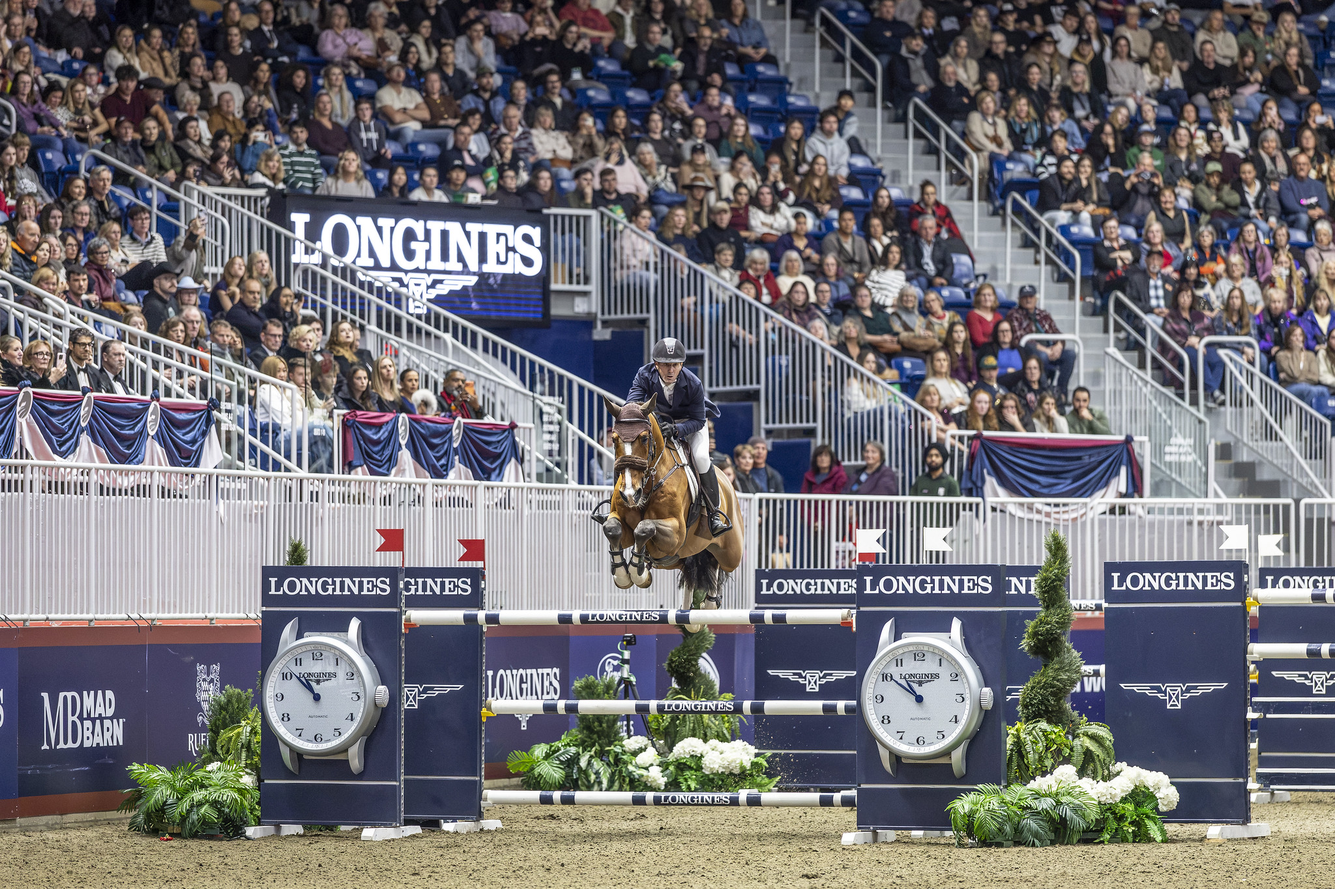
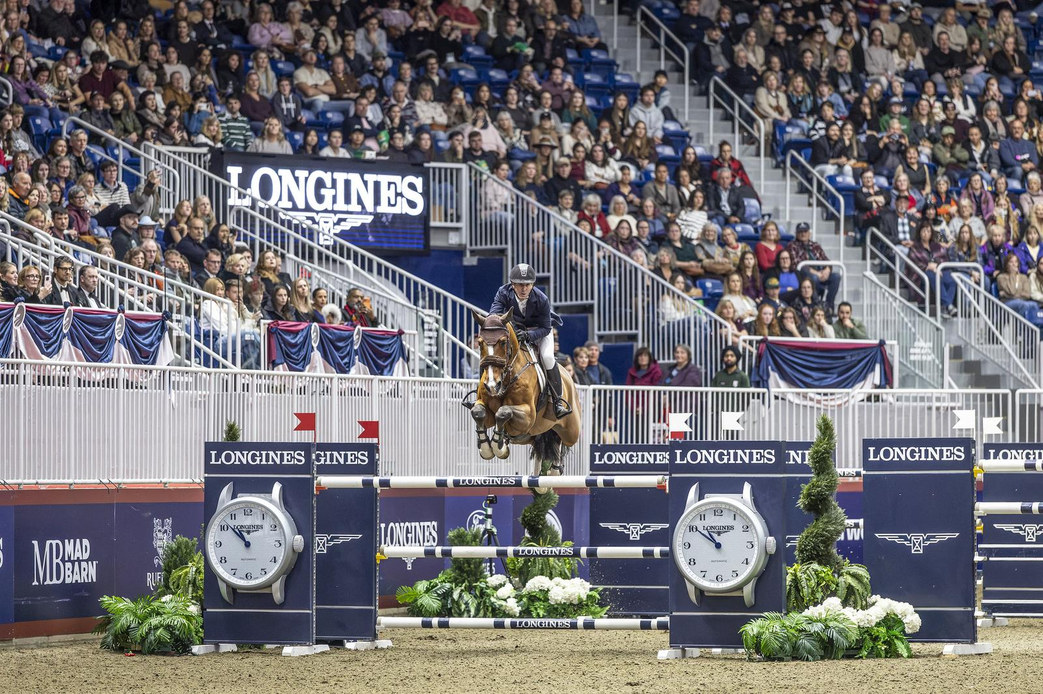
Publicación lote 2026-11-21 10:07: 3 aprobado(s) + 0 rechazado(s) vía Telegram

diff --git a/noticias/20261120-guy-williams-y-kazandor-hero-z-ganan-la-prueba-de-145-m-del-csi4-de-valencia.html b/noticias/20261120-guy-williams-y-kazandor-hero-z-ganan-la-prueba-de-145-m-del-csi4-de-valencia.html
@@ -1,0 +1,166 @@
+<!DOCTYPE html>
+<html lang="es">
+<head>
+<meta charset="utf-8">
+<meta name="viewport" content="width=device-width, initial-scale=1">
+<meta name="google-adsense-account" content="ca-pub-1193575282200437">
+<script async src="https://pagead2.googlesyndication.com/pagead/js/adsbygoogle.js?client=ca-pub-1193575282200437"
+     crossorigin="anonymous"></script>
+<title>Guy Williams y Kazandor Hero Z ganan la prueba de 1,45 m del…</title>
+<meta name="description" content="El británico Guy Williams, con Kazandor Hero Z, se impuso en la prueba de 1,45 m del Big Tour del CSI4* del Moura Tours in Valencia - Autumn Tour."><meta name="robots" content="max-image-preview:large"><link rel="canonical" href="https://www.hipicaaldia.com/noticias/20261120-guy-williams-y-kazandor-hero-z-ganan-la-prueba-de-145-m-del-csi4-de-valencia"><meta property="og:site_name" content="Hípica al Día">
+<meta property="og:type" content="article">
+<meta property="og:title" content="Guy Williams y Kazandor Hero Z ganan la prueba de 1,45 m del CSI4* de Valencia">
+<meta property="og:description" content="El británico Guy Williams, con Kazandor Hero Z, se impuso en la prueba de 1,45 m del Big Tour del CSI4* del Moura Tours in Valencia - Autumn Tour.">
+<meta property="og:url" content="https://www.hipicaaldia.com/noticias/20261120-guy-williams-y-kazandor-hero-z-ganan-la-prueba-de-145-m-del-csi4-de-valencia"><meta property="og:image" content="https://www.hipicaaldia.com/imagenes_archivo/fei_flickr/55653653699_f20a730632_k.jpg">
+<meta property="og:image:width" content="1200">
+<meta property="og:image:height" content="630"><meta name="twitter:card" content="summary_large_image">
+<meta name="twitter:title" content="Guy Williams y Kazandor Hero Z ganan la prueba de 1,45 m del CSI4* de Valencia">
+<meta name="twitter:description" content="El británico Guy Williams, con Kazandor Hero Z, se impuso en la prueba de 1,45 m del Big Tour del CSI4* del Moura Tours in Valencia - Autumn Tour.">
+<meta name="twitter:image" content="https://www.hipicaaldia.com/imagenes_archivo/fei_flickr/55653653699_f20a730632_k.jpg"><link rel="stylesheet" href="../css/estilo.css">
+<link rel="alternate" type="application/rss+xml" title="Hípica al Día" href="https://www.hipicaaldia.com/feed.xml"><link rel="icon" href="../favicon.ico" sizes="any">
+<link rel="icon" href="../favicon.svg" type="image/svg+xml">
+<link rel="apple-touch-icon" href="../apple-touch-icon.png">
+<link rel="manifest" href="../manifest.webmanifest">
+<meta name="theme-color" content="#5C3A1E">
+<script type="application/ld+json">
+{
+  "@context": "https://schema.org",
+  "@type": "NewsMediaOrganization",
+  "name": "Hípica al Día",
+  "url": "https://www.hipicaaldia.com",
+  "logo": {
+    "@type": "ImageObject",
+    "url": "https://www.hipicaaldia.com/icon-512.png",
+    "width": 512,
+    "height": 512
+  },
+  "description": "Noticias del deporte ecuestre",
+  "publisher": {
+    "@type": "Organization",
+    "name": "ICB Equus, S.L."
+  },
+  "sameAs": [
+    "https://www.galopealdia.com"
+  ]
+}
+</script>
+<script type="application/ld+json">
+{
+  "@context": "https://schema.org",
+  "@type": "NewsArticle",
+  "headline": "Guy Williams y Kazandor Hero Z ganan la prueba de 1,45 m del CSI4* de Valencia",
+  "inLanguage": "es",
+  "author": {
+    "@type": "Person",
+    "name": "Lucía Valdeolmos",
+    "url": "https://www.hipicaaldia.com/legal/quienes-somos#firma"
+  },
+  "publisher": {
+    "@type": "NewsMediaOrganization",
+    "name": "Hípica al Día",
+    "url": "https://www.hipicaaldia.com",
+    "logo": {
+      "@type": "ImageObject",
+      "url": "https://www.hipicaaldia.com/icon-512.png"
+    }
+  },
+  "description": "El británico Guy Williams, con Kazandor Hero Z, se impuso en la prueba de 1,45 m del Big Tour del CSI4* del Moura Tours in Valencia - Autumn Tour.",
+  "url": "https://www.hipicaaldia.com/noticias/20261120-guy-williams-y-kazandor-hero-z-ganan-la-prueba-de-145-m-del-csi4-de-valencia",
+  "mainEntityOfPage": {
+    "@type": "WebPage",
+    "@id": "https://www.hipicaaldia.com/noticias/20261120-guy-williams-y-kazandor-hero-z-ganan-la-prueba-de-145-m-del-csi4-de-valencia"
+  },
+  "image": [
+    "https://www.hipicaaldia.com/og-marca.jpg"
+  ],
+  "datePublished": "2026-11-20T20:44:28+01:00",
+  "dateModified": "2026-11-20T20:44:28+01:00"
+}
+</script><script defer src="../js/ads.js"></script>
+<script defer src="https://static.cloudflareinsights.com/beacon.min.js"
+        data-cf-beacon='{"token": "f428b37828f2458dad4f0180049bbd6c"}'></script>
+</head>
+<body>
+<header class="cabecera">
+  <div class="marca">
+    <a href=".././" class="logo">Hípica al Día</a>
+    <p class="slogan">Noticias del deporte ecuestre</p>
+  </div>
+  <nav class="nav-principal">
+    <a href="../salto">Salto</a>
+    <a href="../doma">Doma</a>
+    <a href="../otros">Otros</a>
+    <a href="../cria">Cría</a>
+    <a href="../calendario">Calendario</a>
+  </nav>
+  <div class="hermana">
+    <a href="https://www.galopealdia.com" rel="noopener">Turf →</a>
+  </div>
+</header>
+<main>
+<div class="layout-grid" data-layout="con-sidebar">
+  <div class="contenido-principal">
+<!-- confianza_datos: media -->
+<!-- fuentes_contrastadas: 0 -->
+<article class="noticia">
+  <header>
+    <h1>Guy Williams y Kazandor Hero Z ganan la prueba de 1,45 m del CSI4* de Valencia</h1>
+    <p class="entradilla">El británico Guy Williams, con Kazandor Hero Z, se impuso en la prueba de 1,45 m del Big Tour del CSI4* del Moura Tours in Valencia - Autumn Tour.</p>
+    <p class="meta">20/11/2026 · Salto</p>
+  </header>
+  <figure class="imagen-noticia imagen-archivo"><img src="../imagenes_archivo/fei_flickr/55653653699_f20a730632_k.jpg" alt="Imagen de archivo (2026). McLain Ward (USA) con Jordan Molga M en Longines FEI Jumping World Cup 2026/27 - NAL. Foto: FE"><figcaption class="pie-transparente"><strong>Imagen de archivo (2026). McLain Ward (USA) con Jordan Molga M en Longines FEI Jumping World Cup 2026/27 - NAL. Foto: FEI/Mackenzie Clark</strong></figcaption></figure>
+
+  <div class="cuerpo">
+    <p>La prueba del Big Tour disputada este jueves 20 de noviembre, con baremo A contra el cronómetro y un desempate, llevó el nombre de Cuerpo Consular de Valencia y se saldó con victoria británica. Guy Williams y Kazandor Hero Z cerraron sus dos recorridos sin penalizaciones y firmaron el mejor tiempo, 40,12 segundos, según la clasificación oficial.</p><p>La segunda plaza fue para Elia Simonetti (VEN) con Conchita PS, también con 0-0 puntos y un registro de 41,97 s. El neerlandés Kevin Jochems completó el podio con Ice d'Alba, igualmente sin faltas y con 42,15 s, apenas dieciocho centésimas por detrás del binomio venezolano.</p><p>Los tres primeros clasificados terminaron así con doble cero, y el orden lo decidió el cronómetro. Williams sacó 1,85 segundos a Simonetti, la diferencia más amplia entre los puestos de honor.</p><p>La prueba formó parte del CSI4* de la gira de otoño de Moura Tours in Valencia, que se celebra entre el 26 de octubre y el 22 de noviembre de 2026.</p><p><a href="https://online.equipe.com/startlists/1330461">Resultados oficiales</a></p>
+      <aside class="relacionadas"><h2>Relacionadas</h2><ul><li><a href="20261119-alexander-mclean-gana-con-gino-f-la-prueba-de-145-m-del-csi4-de-valencia.html">Alexander Mclean gana con Gino F la prueba de 1,45 m del CSI4* de Valencia</a></li><li><a href="20261117-double-rose-mejor-registro-en-los-7-y-8-anos-que-abrio-la-ultima-semana-del.html">Double Rose, mejor registro en los 7 y 8 años que abrió la última semana del Autumn Moura Tours</a></li><li><a href="20261030-tres-britanicos-se-reparten-las-pruebas-grandes-en-el-arranque-del-csi3-de.html">Tres británicos se reparten las pruebas grandes en el arranque del CSI3* de Valencia</a></li></ul></aside>
+<p class="enlace-concurso"><a href="../concursos/moura-tours-in-valencia-autumn-tour-2026">Todo sobre 2026 Moura Tours in Valencia - AUTUMN TOUR →</a></p>
+<p class="firma-redaccion">Por <a href="/legal/quienes-somos#firma" rel="author">Lucía Valdeolmos</a></p>  </div>
+  <aside class="promo promo-creadores" aria-label="Promoción">
+    <div class="promo-tarjetas">
+      <a href="https://contablio.app" rel="noopener"><img src="../promo/contablio_tarjeta_370x120.svg" width="370" height="120" alt="Contablio: factura, presenta y cierra el trimestre. Para autónomos y pymes." loading="lazy"></a>
+    </div>
+  </aside>
+</article>
+  </div>
+  <aside class="slot-sidebar" data-slot="sidebar" hidden></aside>
+</div>
+</main>
+<section class="newsletter" aria-labelledby="newsletter-titulo">
+  <h2 id="newsletter-titulo">Lo más importante de la hípica internacional, cada lunes</h2>
+  <form class="newsletter-form" action="/api/newsletter" method="post">
+    <label class="visually-hidden" for="nl-email">Tu email</label>
+    <input id="nl-email" type="email" name="email" required placeholder="Tu email" autocomplete="email">
+    <input type="text" name="web" tabindex="-1" autocomplete="off" class="visually-hidden" aria-hidden="true">
+    <label class="newsletter-priv"><input type="checkbox" name="privacidad" value="si" required>
+      Acepto la <a href="../legal/politica-privacidad">política de privacidad</a>.</label>
+    <button type="submit">Suscribirme</button>
+    <p class="newsletter-msg" role="status"></p>
+  </form>
+  <script>
+  document.querySelector('.newsletter-form').addEventListener('submit', async function (ev) {
+    ev.preventDefault();
+    var f = ev.target, msg = f.querySelector('.newsletter-msg');
+    var datos = Object.fromEntries(new FormData(f));
+    datos.origen = 'pie';
+    try {
+      var r = await fetch('/api/newsletter', {method: 'POST', headers: {'Content-Type': 'application/json'}, body: JSON.stringify(datos)});
+      var j = await r.json(); msg.textContent = j.mensaje || '';
+      if (r.ok) f.reset();
+    } catch (e) { msg.textContent = 'No se pudo enviar. Inténtalo de nuevo.'; }
+  });
+  </script>
+</section>
+<footer>
+  <p>&copy; 2026 Hípica al Día. Medio digital independiente.</p>
+  <nav class="footer-legal" aria-label="Enlaces legales">
+    <a href="../legal/aviso-legal">Aviso legal</a>
+    <a href="../legal/politica-privacidad">Política de privacidad</a>
+    <a href="../legal/politica-cookies">Política de cookies</a>
+    <a href="../legal/quienes-somos">Quiénes somos</a>
+    <a href="../legal/contacto">Contacto</a>
+    <button type="button" class="footer-legal__cmp" data-cmp-revocar hidden>Configuración de cookies</button>
+  </nav>
+</footer>
+<script src="../js/app.js"></script>
+</body>
+</html>

diff --git a/index.html b/index.html
@@ -73,25 +73,37 @@
 
 <section class="portada portada-actualidad">
     <article class="hero-destacado">
-    <a href="noticias/20261121-bibici-cuelga-la-silla-gregory-cottard-retira-a-su-yegua-y-la-deja-en-casa-para">
+    <a href="noticias/20261120-guy-williams-y-kazandor-hero-z-ganan-la-prueba-de-145-m-del-csi4-de-valencia">
       <div class="hero-imagen">
-        <img src="https://www.hipicaaldia.com/imagenes_archivo/jinetes/gregory_cottard/fei_51742133126.jpg" alt=""
+        <img src="https://www.hipicaaldia.com/imagenes_archivo/fei_flickr/55653653699_f20a730632_k.jpg" alt=""
              loading="eager"
 >
       </div>
       <div class="hero-texto">
-<span class="chip-disciplina chip-default_fei">Salto</span><h1>Bibici cuelga la silla: Grégory Cottard retira a su yegua y la deja en casa para criar</h1><p class="entradilla">Grégory Cottard ha comunicado la retirada deportiva de Bibici, Selle Français de 15 años. La yegua seguirá en su yeguada, dedicada a la cría, y recibirá un homenaje en el Salon du Cheval de París.</p>        <p class="meta">21 nov 2026</p>
+<span class="chip-disciplina chip-salto">Salto</span><h1>Guy Williams y Kazandor Hero Z ganan la prueba de 1,45 m del CSI4* de Valencia</h1><p class="entradilla">El británico Guy Williams, con Kazandor Hero Z, se impuso en la prueba de 1,45 m del Big Tour del CSI4* del Moura Tours in Valencia - Autumn Tour.</p>        <p class="meta">20 nov 2026</p>
       </div>
     </a>
   </article>
 
   <div class="heroes-secundarios">
   <article class="hero-destacado hero-mediano">
+    <a href="noticias/20261121-bibici-cuelga-la-silla-gregory-cottard-retira-a-su-yegua-y-la-deja-en-casa-para">
+      <div class="hero-imagen" style="--foto:url('https://www.hipicaaldia.com/imagenes_archivo/jinetes/gregory_cottard/fei_51742133126.jpg')">
+        <img src="https://www.hipicaaldia.com/imagenes_archivo/jinetes/gregory_cottard/fei_51742133126.jpg" alt=""
+             loading="eager"
+>
+      </div>
+      <div class="hero-texto">
+<span class="chip-disciplina chip-default_fei">Salto</span><h2 class="hero-titular">Bibici cuelga la silla: Grégory Cottard retira a su yegua y la deja en casa para criar</h2>        <p class="meta">21 nov 2026</p>
+      </div>
+    </a>
+  </article>
+  <article class="hero-destacado hero-mediano">
     <a href="noticias/20261120-peter-van-der-waaij-deja-el-cargo-de-chef-d-equipe-de-salto-en-swiss-equestrian">
       <div class="hero-imagen" style="--foto:url('https://www.hipicaaldia.com/imagenes_archivo/dropbox_lgct_fotos/LGCT%20MONACO%202026_CSI5_%20145_546_Fuchs%20Martin_Falcon%20du%20Toultia%20Z_260703_Monaco_LGCT_FR_CSI5_145_PG_Wine-00044.jpg')">
         <img src="https://www.hipicaaldia.com/imagenes_archivo/dropbox_lgct_fotos/LGCT%20MONACO%202026_CSI5_%20145_546_Fuchs%20Martin_Falcon%20du%20Toultia%20Z_260703_Monaco_LGCT_FR_CSI5_145_PG_Wine-00044.jpg" alt=""
-             loading="eager"
->
+             loading="lazy"
+decoding="async">
       </div>
       <div class="hero-texto">
 <span class="chip-disciplina chip-salto">Salto</span><h2 class="hero-titular">Peter van der Waaij deja el cargo de Chef d&#39;Equipe de salto en Swiss Equestrian</h2>        <p class="meta">20 nov 2026</p>
@@ -107,18 +119,6 @@ decoding="async">
       </div>
       <div class="hero-texto">
 <span class="chip-disciplina chip-salto">Salto</span><h2 class="hero-titular">Diez jinetes españoles, en el CSI5*-W Mutua Madrid Horses Week</h2>        <p class="meta">20 nov 2026</p>
-      </div>
-    </a>
-  </article>
-  <article class="hero-destacado hero-mediano">
-    <a href="noticias/20261120-nueve-binomios-espanoles-saltan-este-fin-de-semana-en-verona-rouen-y-opglabbeek">
-      <div class="hero-imagen" style="--foto:url('https://www.hipicaaldia.com/imagenes_archivo/dropbox_lgct_fotos/LTIA%202_574_Alvarez%20Moya%20Sergio_Quadrado_CSI4_%201.55m%20Grand%20Prix_02082026_R3LB6998.jpg')">
-        <img src="https://www.hipicaaldia.com/imagenes_archivo/dropbox_lgct_fotos/LTIA%202_574_Alvarez%20Moya%20Sergio_Quadrado_CSI4_%201.55m%20Grand%20Prix_02082026_R3LB6998.jpg" alt=""
-             loading="lazy"
-decoding="async">
-      </div>
-      <div class="hero-texto">
-<span class="chip-disciplina chip-default_fei">Salto</span><h2 class="hero-titular">Nueve binomios españoles saltan este fin de semana en Verona, Rouen y Opglabbeek</h2>        <p class="meta">20 nov 2026</p>
       </div>
     </a>
   </article>
@@ -173,6 +173,18 @@ decoding="async">
   </a>
 </li>
 <li class="tarjeta">
+  <a href="noticias/20261120-nueve-binomios-espanoles-saltan-este-fin-de-semana-en-verona-rouen-y-opglabbeek">
+    <div class="tarjeta-imagen" style="--foto:url('https://www.hipicaaldia.com/imagenes_archivo/dropbox_lgct_fotos/LTIA%202_574_Alvarez%20Moya%20Sergio_Quadrado_CSI4_%201.55m%20Grand%20Prix_02082026_R3LB6998.jpg')">
+      <img src="https://www.hipicaaldia.com/imagenes_archivo/dropbox_lgct_fotos/LTIA%202_574_Alvarez%20Moya%20Sergio_Quadrado_CSI4_%201.55m%20Grand%20Prix_02082026_R3LB6998.jpg" alt="" loading="lazy">
+    </div>
+    <div class="tarjeta-texto">
+<span class="chip-disciplina chip-default_fei">Salto</span>      <h2>Nueve binomios españoles saltan este fin de semana en Verona, Rouen y Opglabbeek</h2>
+      <p class="entradilla">Cuatro jinetes españoles reparten sus monturas entre tres concursos internacionales: el CSI5* de Verona, el CSI2* de Rouen y las pruebas de Opglabbeek, todos hasta el</p>
+      <p class="meta">20 nov 2026</p>
+    </div>
+  </a>
+</li>
+<li class="tarjeta">
   <a href="noticias/20261120-riyadh-knights-unico-equipo-sin-faltas-en-los-cuartos-de-la-super-copa-madrid-in">
     <div class="tarjeta-imagen" style="--foto:url('https://www.hipicaaldia.com/imagenes_archivo/dropbox_lgct_fotos/LGCT%20VERONA%202026_CSI5_%20145_552_Olivier%20Perreau_Himalaya%20du%20Temple_261119_R3LB0529.jpg')">
       <img src="https://www.hipicaaldia.com/imagenes_archivo/dropbox_lgct_fotos/LGCT%20VERONA%202026_CSI5_%20145_552_Olivier%20Perreau_Himalaya%20du%20Temple_261119_R3LB0529.jpg" alt="" loading="lazy">
@@ -180,18 +192,6 @@ decoding="async">
     <div class="tarjeta-texto">
 <span class="chip-disciplina chip-default_fei">Salto</span>      <h2>Riyadh Knights, único equipo sin faltas en los cuartos de la Súper Copa; Madrid in Motion se queda fuera</h2>
       <p class="entradilla">De los doce equipos de los cuartos de final, solo Riyadh Knights terminó a cero. Madrid in Motion fue décimo con 24 puntos y no pasa a la semifinal.</p>
-      <p class="meta">20 nov 2026</p>
-    </div>
-  </a>
-</li>
-<li class="tarjeta">
-  <a href="noticias/20261120-la-fei-sopesa-una-serie-cci5-para-frenar-la-sangria-de-participantes">
-    <div class="tarjeta-imagen" style="--foto:url('https://www.hipicaaldia.com/imagenes_archivo/fei_flickr/55465124597_e02f184100_k.jpg')">
-      <img src="https://www.hipicaaldia.com/imagenes_archivo/fei_flickr/55465124597_e02f184100_k.jpg" alt="" loading="lazy">
-    </div>
-    <div class="tarjeta-texto">
-<span class="chip-disciplina chip-cce">Completo</span>      <h2>La FEI sopesa una serie CCI5* para frenar la sangría de participantes</h2>
-      <p class="entradilla">El Comité de Concurso Completo de la FEI ha abierto conversaciones con organizadores y con el departamento comercial para estudiar una serie que agrupe los CCI5*, aún en</p>
       <p class="meta">20 nov 2026</p>
     </div>
   </a>

diff --git a/salto.html b/salto.html
@@ -72,6 +72,18 @@
   <h1>Salto</h1>
 <p class="seccion-intro">Toda la actualidad del salto de obstáculos internacional: los grandes premios del circuito a partir de CSI3*, las Copas de Naciones, el Longines Global Champions Tour, el Rolex Grand Slam, la Copa del Mundo y los campeonatos de Europa y del Mundo, con atención especial a los jinetes y amazonas españoles en cualquier concurso internacional.</p>  <ul class="lista-noticias">
     <li class="tarjeta">
+      <a href="noticias/20261120-guy-williams-y-kazandor-hero-z-ganan-la-prueba-de-145-m-del-csi4-de-valencia">
+        <div class="tarjeta-imagen" style="--foto:url('https://www.hipicaaldia.com/imagenes_archivo/fei_flickr/55653653699_f20a730632_k.jpg')">
+          <img src="https://www.hipicaaldia.com/imagenes_archivo/fei_flickr/55653653699_f20a730632_k.jpg" alt="" loading="lazy">
+        </div>
+        <div class="tarjeta-texto">
+          <h2>Guy Williams y Kazandor Hero Z ganan la prueba de 1,45 m del CSI4* de Valencia</h2>
+          <p class="entradilla">El británico Guy Williams, con Kazandor Hero Z, se impuso en la prueba de 1,45 m del Big Tour del CSI4* del Moura Tours in Valencia - Autumn Tour.</p>
+          <p class="meta">20 nov 2026</p>
+        </div>
+      </a>
+    </li>
+    <li class="tarjeta">
       <a href="noticias/20261121-bibici-cuelga-la-silla-gregory-cottard-retira-a-su-yegua-y-la-deja-en-casa-para">
         <div class="tarjeta-imagen" style="--foto:url('https://www.hipicaaldia.com/imagenes_archivo/jinetes/gregory_cottard/fei_51742133126.jpg')">
           <img src="https://www.hipicaaldia.com/imagenes_archivo/jinetes/gregory_cottard/fei_51742133126.jpg" alt="" loading="lazy">
@@ -324,18 +336,6 @@
       </a>
     </li>
     <li class="tarjeta">
-      <a href="noticias/20261113-richard-vogel-y-gangster-montdesir-ganan-la-prueba-de-155-m-del-csi5-de">
-        <div class="tarjeta-imagen" style="--foto:url('https://live.staticflickr.com/65535/55640784898_b8526e6b2d_h.jpg')">
-          <img src="https://live.staticflickr.com/65535/55640784898_b8526e6b2d_h.jpg" alt="" loading="lazy">
-        </div>
-        <div class="tarjeta-texto">
-          <h2>Richard Vogel y Gangster Montdesir ganan la prueba de 1,55 m del CSI5* de Stuttgart</h2>
-          <p class="entradilla">El alemán Richard Vogel y Gangster Montdesir se impusieron en el Prize of Outletcity Metzingen, de 1,55 m, del Stuttgart German Masters, concurso de categoría CSI5*.</p>
-          <p class="meta">13 nov 2026</p>
-        </div>
-      </a>
-    </li>
-    <li class="tarjeta">
       <a href="noticias/20261112-rodrigo-giesteira-almeida-gana-con-karonia-l-la-prueba-de-150-m-del-csi5-de">
         <div class="tarjeta-imagen" style="--foto:url('https://www.hipicaaldia.com/imagenes_archivo/dropbox_lgct_fotos/Almeida%20Rodrigo%20Giesteira%20POR%20Karonia.L_Prague%20Playofss_20251121_01SG7457.jpg')">
           <img src="https://www.hipicaaldia.com/imagenes_archivo/dropbox_lgct_fotos/Almeida%20Rodrigo%20Giesteira%20POR%20Karonia.L_Prague%20Playofss_20251121_01SG7457.jpg" alt="" loading="lazy">
@@ -344,6 +344,18 @@
           <h2>Rodrigo Giesteira Almeida gana con Karonia.L la prueba de 1,50 m del CSI5* de Stuttgart</h2>
           <p class="entradilla">El jinete portugués Rodrigo Giesteira Almeida y Karonia.L ganaron el Prize of Firma XXL-Sicherheit, prueba de 1,50 m del Stuttgart German Masters</p>
           <p class="meta">12 nov 2026</p>
+        </div>
+      </a>
+    </li>
+    <li class="tarjeta">
+      <a href="noticias/20261113-richard-vogel-y-gangster-montdesir-ganan-la-prueba-de-155-m-del-csi5-de">
+        <div class="tarjeta-imagen" style="--foto:url('https://live.staticflickr.com/65535/55640784898_b8526e6b2d_h.jpg')">
+          <img src="https://live.staticflickr.com/65535/55640784898_b8526e6b2d_h.jpg" alt="" loading="lazy">
+        </div>
+        <div class="tarjeta-texto">
+          <h2>Richard Vogel y Gangster Montdesir ganan la prueba de 1,55 m del CSI5* de Stuttgart</h2>
+          <p class="entradilla">El alemán Richard Vogel y Gangster Montdesir se impusieron en el Prize of Outletcity Metzingen, de 1,55 m, del Stuttgart German Masters, concurso de</p>
+          <p class="meta">13 nov 2026</p>
         </div>
       </a>
     </li>

diff --git a/concursos/moura-tours-in-valencia-autumn-tour-2026.html b/concursos/moura-tours-in-valencia-autumn-tour-2026.html
@@ -78,10 +78,13 @@
       Jérôme Guery (BEL) con Clayboy · <a href="https://online.equipe.com/startlists/1329051" target="_blank" rel="noopener noreferrer">clasificación</a></li>
     <li><strong>CSI4* Big Tour Table A agst Clock (220.2.1.1) 1.45m - 28.500€</strong> (1.45m):
       Alexander Mclean (GBR) con Gino F · <a href="https://online.equipe.com/startlists/1330090" target="_blank" rel="noopener noreferrer">clasificación</a></li>
+    <li><strong>CSI4* Big Tour Table A agst Clock with 1 Jump-Off (220.2.1.2) 1.45m - 31.000€ - - CUERPO CONSULAR DE VALENCIA</strong> (1.45m):
+      Guy Williams (GBR) con Kazandor Hero Z · <a href="https://online.equipe.com/startlists/1330461" target="_blank" rel="noopener noreferrer">clasificación</a></li>
   </ul>
 
   <h2>Nuestras noticias</h2>
   <ul class="concurso-noticias">
+    <li><a href="../noticias/20261120-guy-williams-y-kazandor-hero-z-ganan-la-prueba-de-145-m-del-csi4-de-valencia">Guy Williams y Kazandor Hero Z ganan la prueba de 1,45 m del CSI4* de Valencia</a></li>
     <li><a href="../noticias/20261119-alexander-mclean-gana-con-gino-f-la-prueba-de-145-m-del-csi4-de-valencia">Alexander Mclean gana con Gino F la prueba de 1,45 m del CSI4* de Valencia</a></li>
     <li><a href="../noticias/20261115-jerome-guery-y-clayboy-ganan-el-gran-premio-de-150-m-del-csi3-de-oliva">Jérôme Guery y Clayboy ganan el Gran Premio de 1,50 m del CSI3* de Oliva</a></li>
     <li><a href="../noticias/20261117-double-rose-mejor-registro-en-los-7-y-8-anos-que-abrio-la-ultima-semana-del">Double Rose, mejor registro en los 7 y 8 años que abrió la última semana del Autumn Moura Tours</a></li>
